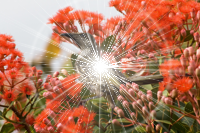
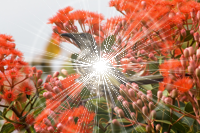
Updated examples with vignette

diff --git a/README.md b/README.md
@@ -197,6 +197,7 @@ Click on the small images to see an enlarged example.
 | threshold | <a href='https://raw.github.com/sksamuel/scrimage/master/examples/filters/bird_threshold_large.jpeg'><img src='https://raw.github.com/sksamuel/scrimage/master/examples/filters/bird_threshold_small.png'><a/> | <a href='https://raw.github.com/sksamuel/scrimage/master/examples/filters/colosseum_threshold_large.jpeg'><img src='https://raw.github.com/sksamuel/scrimage/master/examples/filters/colosseum_threshold_small.png'><a/> | <a href='https://raw.github.com/sksamuel/scrimage/master/examples/filters/lanzarote_threshold_large.jpeg'><img src='https://raw.github.com/sksamuel/scrimage/master/examples/filters/lanzarote_threshold_small.png'><a/> |
 | twirl | <a href='https://raw.github.com/sksamuel/scrimage/master/examples/filters/bird_twirl_large.jpeg'><img src='https://raw.github.com/sksamuel/scrimage/master/examples/filters/bird_twirl_small.png'><a/> | <a href='https://raw.github.com/sksamuel/scrimage/master/examples/filters/colosseum_twirl_large.jpeg'><img src='https://raw.github.com/sksamuel/scrimage/master/examples/filters/colosseum_twirl_small.png'><a/> | <a href='https://raw.github.com/sksamuel/scrimage/master/examples/filters/lanzarote_twirl_large.jpeg'><img src='https://raw.github.com/sksamuel/scrimage/master/examples/filters/lanzarote_twirl_small.png'><a/> |
 | unsharp | <a href='https://raw.github.com/sksamuel/scrimage/master/examples/filters/bird_unsharp_large.jpeg'><img src='https://raw.github.com/sksamuel/scrimage/master/examples/filters/bird_unsharp_small.png'><a/> | <a href='https://raw.github.com/sksamuel/scrimage/master/examples/filters/colosseum_unsharp_large.jpeg'><img src='https://raw.github.com/sksamuel/scrimage/master/examples/filters/colosseum_unsharp_small.png'><a/> | <a href='https://raw.github.com/sksamuel/scrimage/master/examples/filters/lanzarote_unsharp_large.jpeg'><img src='https://raw.github.com/sksamuel/scrimage/master/examples/filters/lanzarote_unsharp_small.png'><a/> |
+| vignette | <a href='https://raw.github.com/sksamuel/scrimage/master/examples/filters/bird_vignette_large.jpeg'><img src='https://raw.github.com/sksamuel/scrimage/master/examples/filters/bird_vignette_small.png'><a/> | <a href='https://raw.github.com/sksamuel/scrimage/master/examples/filters/colosseum_vignette_large.jpeg'><img src='https://raw.github.com/sksamuel/scrimage/master/examples/filters/colosseum_vignette_small.png'><a/> | <a href='https://raw.github.com/sksamuel/scrimage/master/examples/filters/lanzarote_vignette_large.jpeg'><img src='https://raw.github.com/sksamuel/scrimage/master/examples/filters/lanzarote_vignette_small.png'><a/> |
 | vintage | <a href='https://raw.github.com/sksamuel/scrimage/master/examples/filters/bird_vintage_large.jpeg'><img src='https://raw.github.com/sksamuel/scrimage/master/examples/filters/bird_vintage_small.png'><a/> | <a href='https://raw.github.com/sksamuel/scrimage/master/examples/filters/colosseum_vintage_large.jpeg'><img src='https://raw.github.com/sksamuel/scrimage/master/examples/filters/colosseum_vintage_small.png'><a/> | <a href='https://raw.github.com/sksamuel/scrimage/master/examples/filters/lanzarote_vintage_large.jpeg'><img src='https://raw.github.com/sksamuel/scrimage/master/examples/filters/lanzarote_vintage_small.png'><a/> |
 
 

diff --git a/filters.md b/filters.md
@@ -42,4 +42,5 @@
 | threshold | <a href='https://raw.github.com/sksamuel/scrimage/master/examples/filters/bird_threshold_large.jpeg'><img src='https://raw.github.com/sksamuel/scrimage/master/examples/filters/bird_threshold_small.png'><a/> | <a href='https://raw.github.com/sksamuel/scrimage/master/examples/filters/colosseum_threshold_large.jpeg'><img src='https://raw.github.com/sksamuel/scrimage/master/examples/filters/colosseum_threshold_small.png'><a/> | <a href='https://raw.github.com/sksamuel/scrimage/master/examples/filters/lanzarote_threshold_large.jpeg'><img src='https://raw.github.com/sksamuel/scrimage/master/examples/filters/lanzarote_threshold_small.png'><a/> | 
 | twirl | <a href='https://raw.github.com/sksamuel/scrimage/master/examples/filters/bird_twirl_large.jpeg'><img src='https://raw.github.com/sksamuel/scrimage/master/examples/filters/bird_twirl_small.png'><a/> | <a href='https://raw.github.com/sksamuel/scrimage/master/examples/filters/colosseum_twirl_large.jpeg'><img src='https://raw.github.com/sksamuel/scrimage/master/examples/filters/colosseum_twirl_small.png'><a/> | <a href='https://raw.github.com/sksamuel/scrimage/master/examples/filters/lanzarote_twirl_large.jpeg'><img src='https://raw.github.com/sksamuel/scrimage/master/examples/filters/lanzarote_twirl_small.png'><a/> | 
 | unsharp | <a href='https://raw.github.com/sksamuel/scrimage/master/examples/filters/bird_unsharp_large.jpeg'><img src='https://raw.github.com/sksamuel/scrimage/master/examples/filters/bird_unsharp_small.png'><a/> | <a href='https://raw.github.com/sksamuel/scrimage/master/examples/filters/colosseum_unsharp_large.jpeg'><img src='https://raw.github.com/sksamuel/scrimage/master/examples/filters/colosseum_unsharp_small.png'><a/> | <a href='https://raw.github.com/sksamuel/scrimage/master/examples/filters/lanzarote_unsharp_large.jpeg'><img src='https://raw.github.com/sksamuel/scrimage/master/examples/filters/lanzarote_unsharp_small.png'><a/> | 
+| vignette | <a href='https://raw.github.com/sksamuel/scrimage/master/examples/filters/bird_vignette_large.jpeg'><img src='https://raw.github.com/sksamuel/scrimage/master/examples/filters/bird_vignette_small.png'><a/> | <a href='https://raw.github.com/sksamuel/scrimage/master/examples/filters/colosseum_vignette_large.jpeg'><img src='https://raw.github.com/sksamuel/scrimage/master/examples/filters/colosseum_vignette_small.png'><a/> | <a href='https://raw.github.com/sksamuel/scrimage/master/examples/filters/lanzarote_vignette_large.jpeg'><img src='https://raw.github.com/sksamuel/scrimage/master/examples/filters/lanzarote_vignette_small.png'><a/> | 
 | vintage | <a href='https://raw.github.com/sksamuel/scrimage/master/examples/filters/bird_vintage_large.jpeg'><img src='https://raw.github.com/sksamuel/scrimage/master/examples/filters/bird_vintage_small.png'><a/> | <a href='https://raw.github.com/sksamuel/scrimage/master/examples/filters/colosseum_vintage_large.jpeg'><img src='https://raw.github.com/sksamuel/scrimage/master/examples/filters/colosseum_vintage_small.png'><a/> | <a href='https://raw.github.com/sksamuel/scrimage/master/examples/filters/lanzarote_vintage_large.jpeg'><img src='https://raw.github.com/sksamuel/scrimage/master/examples/filters/lanzarote_vintage_small.png'><a/> | 
